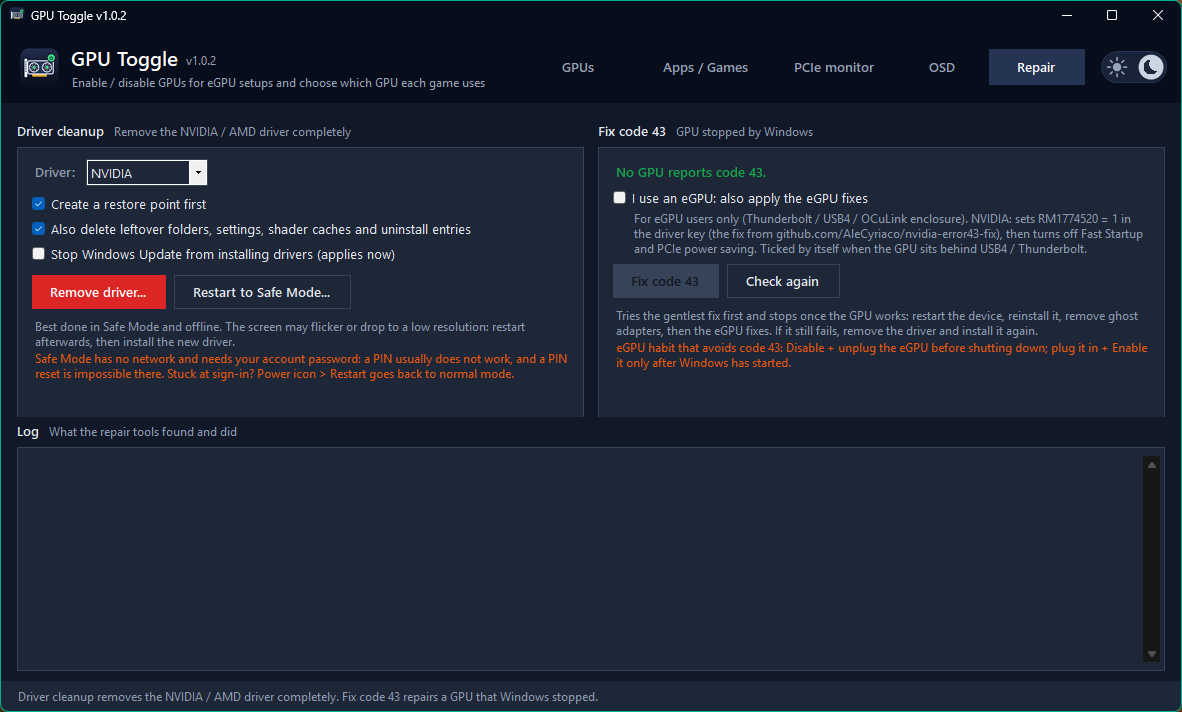
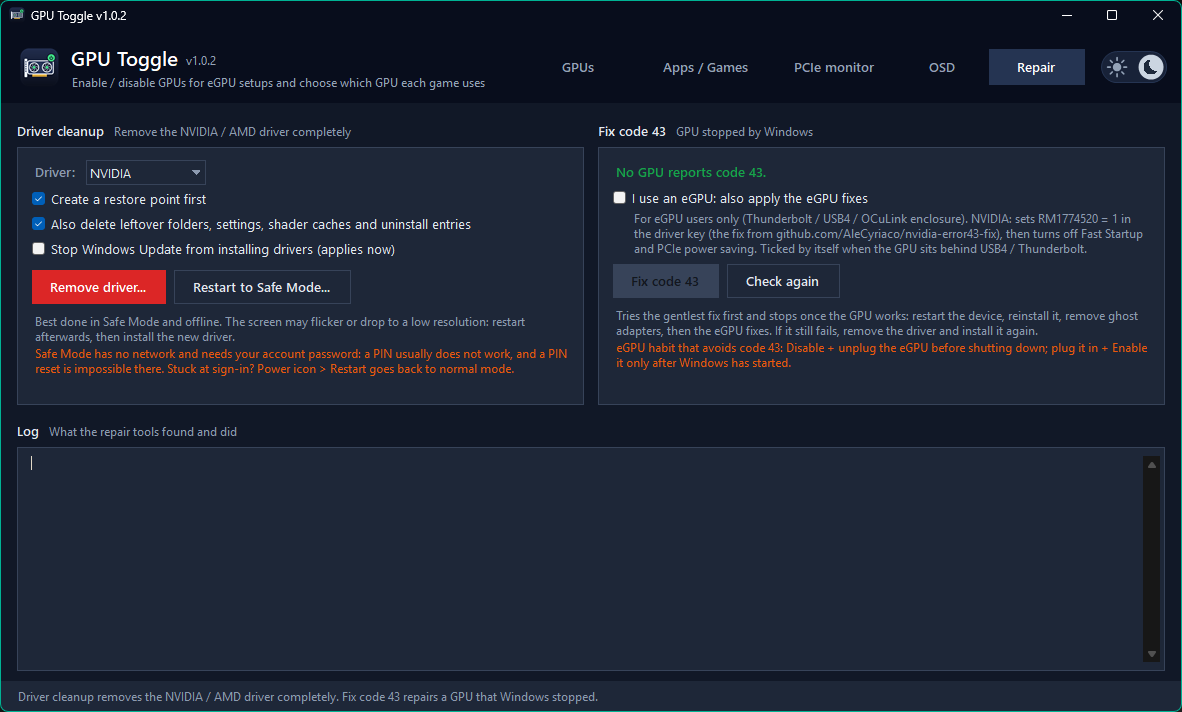
Ảnh GPU Toggle theo bản v1.0.2 mới nhất, thêm giấy phép MIT cho repo
- Chụp lại trang GPUs và Repair: viền, ô chọn và thanh cuộn đã tối màu
- Thêm LICENSE (MIT) và mục Giấy phép trong README

Changed region(s): [[0.0305, 0.2163, 0.4873, 0.5562]]

diff --git a/README.md b/README.md
@@ -119,3 +119,7 @@ Màu và cỡ chữ nằm ở đầu `src/styles/global.css`. Tên, mô tả sit
 4. Sau khi deploy xong, vào **Custom domains** của project, thêm `ncaohoc.dev` (và `www.ncaohoc.dev` nếu muốn). Domain mua ở Cloudflare nên DNS và HTTPS được cấu hình tự động.
 
 Từ đó, mỗi lần push lên nhánh chính là site tự build lại.
+
+## Giấy phép
+
+Mã nguồn theo giấy phép MIT, xem [LICENSE](LICENSE).
